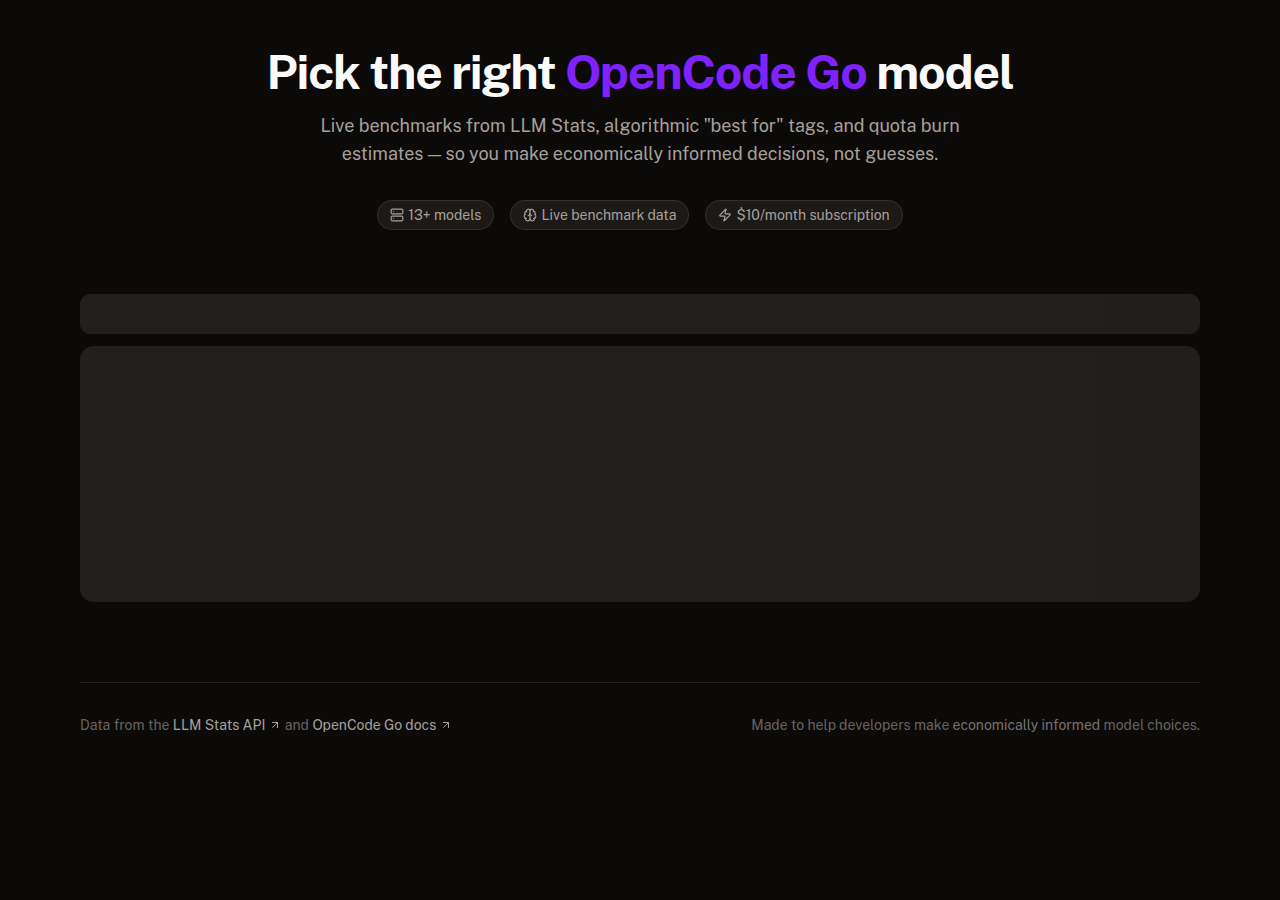
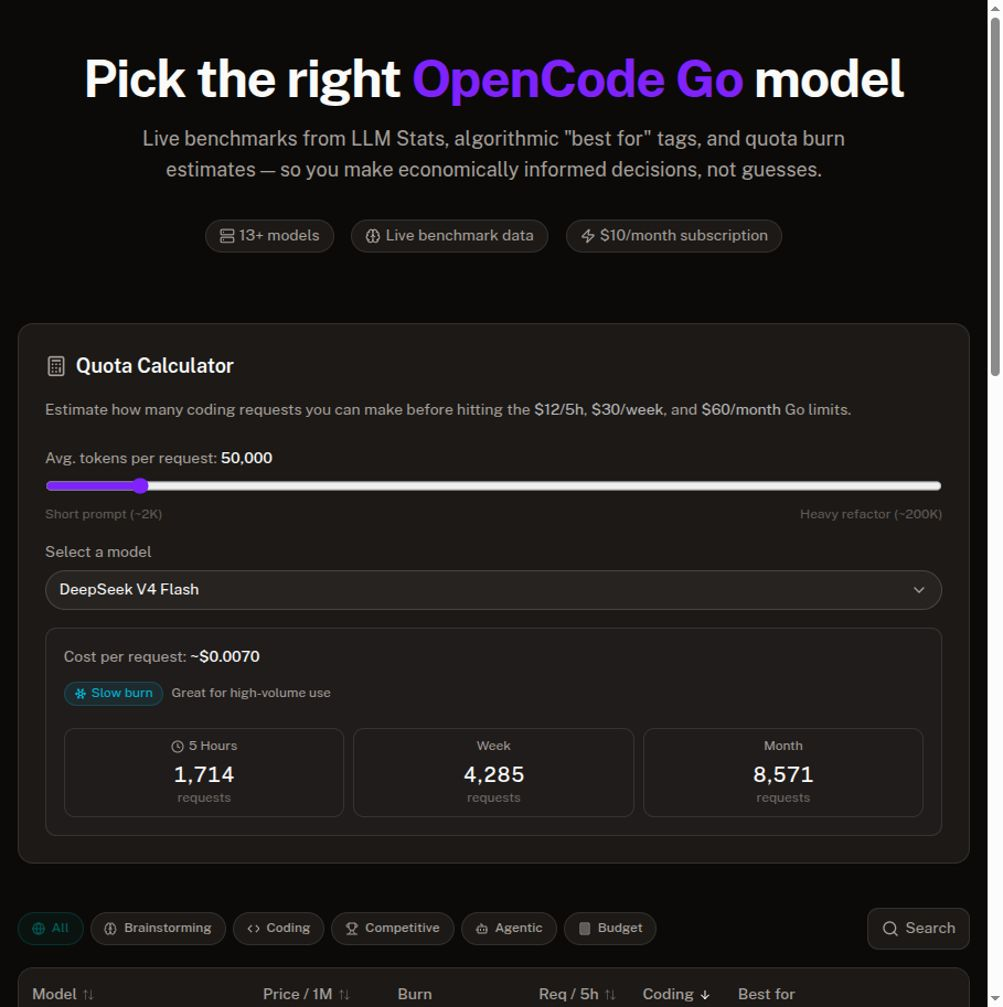
fix: update Netlify status badge and replace screenshot

diff --git a/README.md b/README.md
@@ -2,7 +2,7 @@
 
 **Find the right OpenCode Go model — without burning through your quota.**
 
-[![Netlify Status](https://api.netlify.com/api/v1/badges/YOUR_BADGE_ID/deploy-status)](https://zenpick.netlify.app)
+[![Netlify Status](https://api.netlify.com/api/v1/badges/91fb6716-5f3e-42ad-87cc-58d7fcc6b1ec/deploy-status)](https://app.netlify.com/projects/zenpick/deploys)
 
 [ZenPick](https://zenpick.netlify.app) compares every [OpenCode Go](https://opencode.ai/zen) model side-by-side with live benchmarks, algorithmic fit scores, and quota burn estimates. One $10/month subscription, 12+ models — pick the one that matches your task and your budget.
 